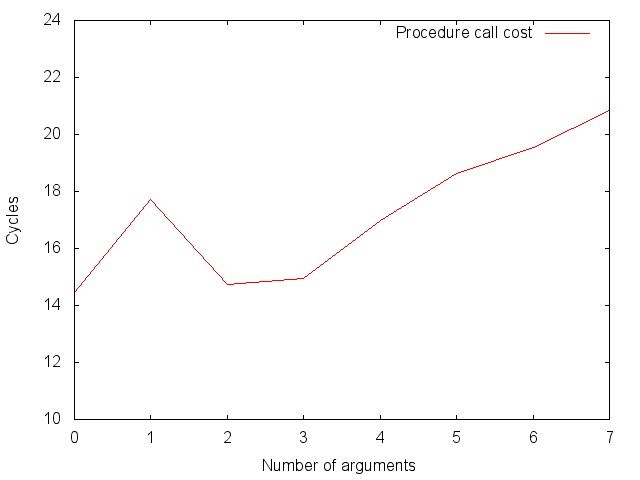
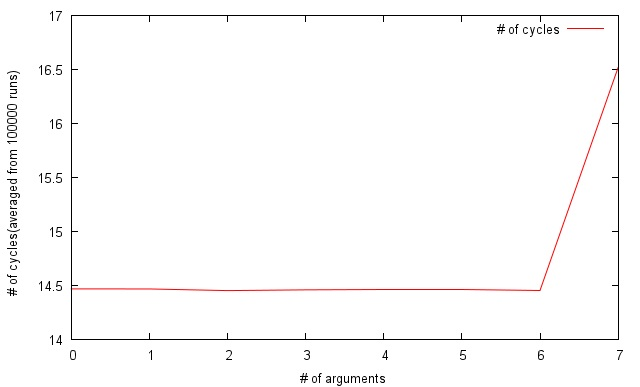
Bug fixed version after memoryLatencyImage.png added and result added for RAM access time.

diff --git a/report/src/experiments-ram.tex b/report/src/experiments-ram.tex
@@ -9,13 +9,34 @@ We expected to see the RAM access time increases as it goes from L1, L2 to main 
 3. iteration of all the whole array(doesn’t fit into caches).
 \paragraph{Predictions}
 \paragraph{Results}
-
+We are going to present the result table for stride 11 and the plotted graph for different strides from 1 to 15.
 \begin{center}
-\begin{tabular}{| l | l | l | l | l |}
+\begin{tabular}{| r | l | l | l | r |}
 \hline
-Operation & Hardware cose & Software cost & Prediction & Measured \\
+Size of array 	& Hardware cost 	& Software cost 	& Prediction 	& Measured \\ \hline
+512B 			&				&				&			&3.895 cycles	\\ \hline
+1KB 			&				&				&			&3.886 cycles		\\ \hline
+2KB 			&				&				&			&3.885 cycles		\\ \hline
+4KB 			&				&				&			&3.886 cycles		\\ \hline
+8KB 			&				&				&			&3.886 cycles		\\ \hline
+16KB 			&				&				&			&3.888 cycles		\\ \hline
+32KB 			&				&				&			&3.891 cycles		\\ \hline
+64KB 			&				&				&			&5.949 cycles		\\ \hline
+128KB 		&				&				&			&5.945 cycles		\\ \hline
+256KB 		&				&				&			&6.209 cycles		\\ \hline
+512KB 		&				&				&			&10.314 cycles		\\ \hline
+1MB 			&				&				&			&10.399 cycles		\\ \hline
+2MB 			&				&				&			&10.757 cycles		\\ \hline
+4MB 			&				&				&			&15.585 cycles		\\ \hline
+8MB 			&				&				&			&30.265 cycles		\\ \hline
+16MB 			&				&				&			&37.458 cycles		\\ \hline
+32MB 			&				&				&			&37.686 cycles		\\ \hline
+64MB 			&				&				&			&37.092 cycles		\\ \hline
+128MB 		&				&				&			&37.619 cycles		\\ \hline
+
 \hline
 \end{tabular}
+\includegraphics[scale=0.8]{memoryLatencyImage}
 \end{center}
 
 \paragraph{Accuracy of Estimates}

diff --git a/report/src/experiments-cpuschedos.tex b/report/src/experiments-cpuschedos.tex
@@ -102,16 +102,16 @@ argument will cause a cost of one cycle due to the new register access.
 \begin{tabular}{| l | l | l | l | l |}
 \hline
 \# of args & Hardware cost & Software cost & Prediction & Measured \\ \hline
-0 & 10  & 0  & 10  & 14.442 cycles \\ \hline
-1 & 11  & 0  & 11  & 17.704 cycles \\ \hline
-2 & 12  & 0  & 12  & 14.728 cycles \\ \hline
-3 & 13  & 0  & 13  & 14.937 cycles \\ \hline
-4 & 14  & 0  & 14  & 16.986 cycles \\ \hline
-5 & 15  & 0  & 15  & 18.620 cycles \\ \hline
-6 & 16  & 0  & 16  & 19.533 cycles \\ \hline
-7 & 17  & 0  & 17  & 20.844 cycles \\ \hline
+0 & 10  & 0  & 10  & 14.471 cycles \\ \hline
+1 & 11  & 0  & 11  & 14.471 cycles \\ \hline
+2 & 12  & 0  & 12  & 14.455 cycles \\ \hline
+3 & 13  & 0  & 13  & 14.462 cycles \\ \hline
+4 & 14  & 0  & 14  & 14.461 cycles \\ \hline
+5 & 15  & 0  & 15  & 14.461 cycles \\ \hline
+6 & 16  & 0  & 16  & 14.456 cycles \\ \hline
+7 & 17  & 0  & 17  & 16.518 cycles \\ \hline
 \end{tabular} \\
-\includegraphics[scale=0.5]{procCallImage}
+\includegraphics[scale=0.8]{procCallImage}
 \end{center}
 
 
